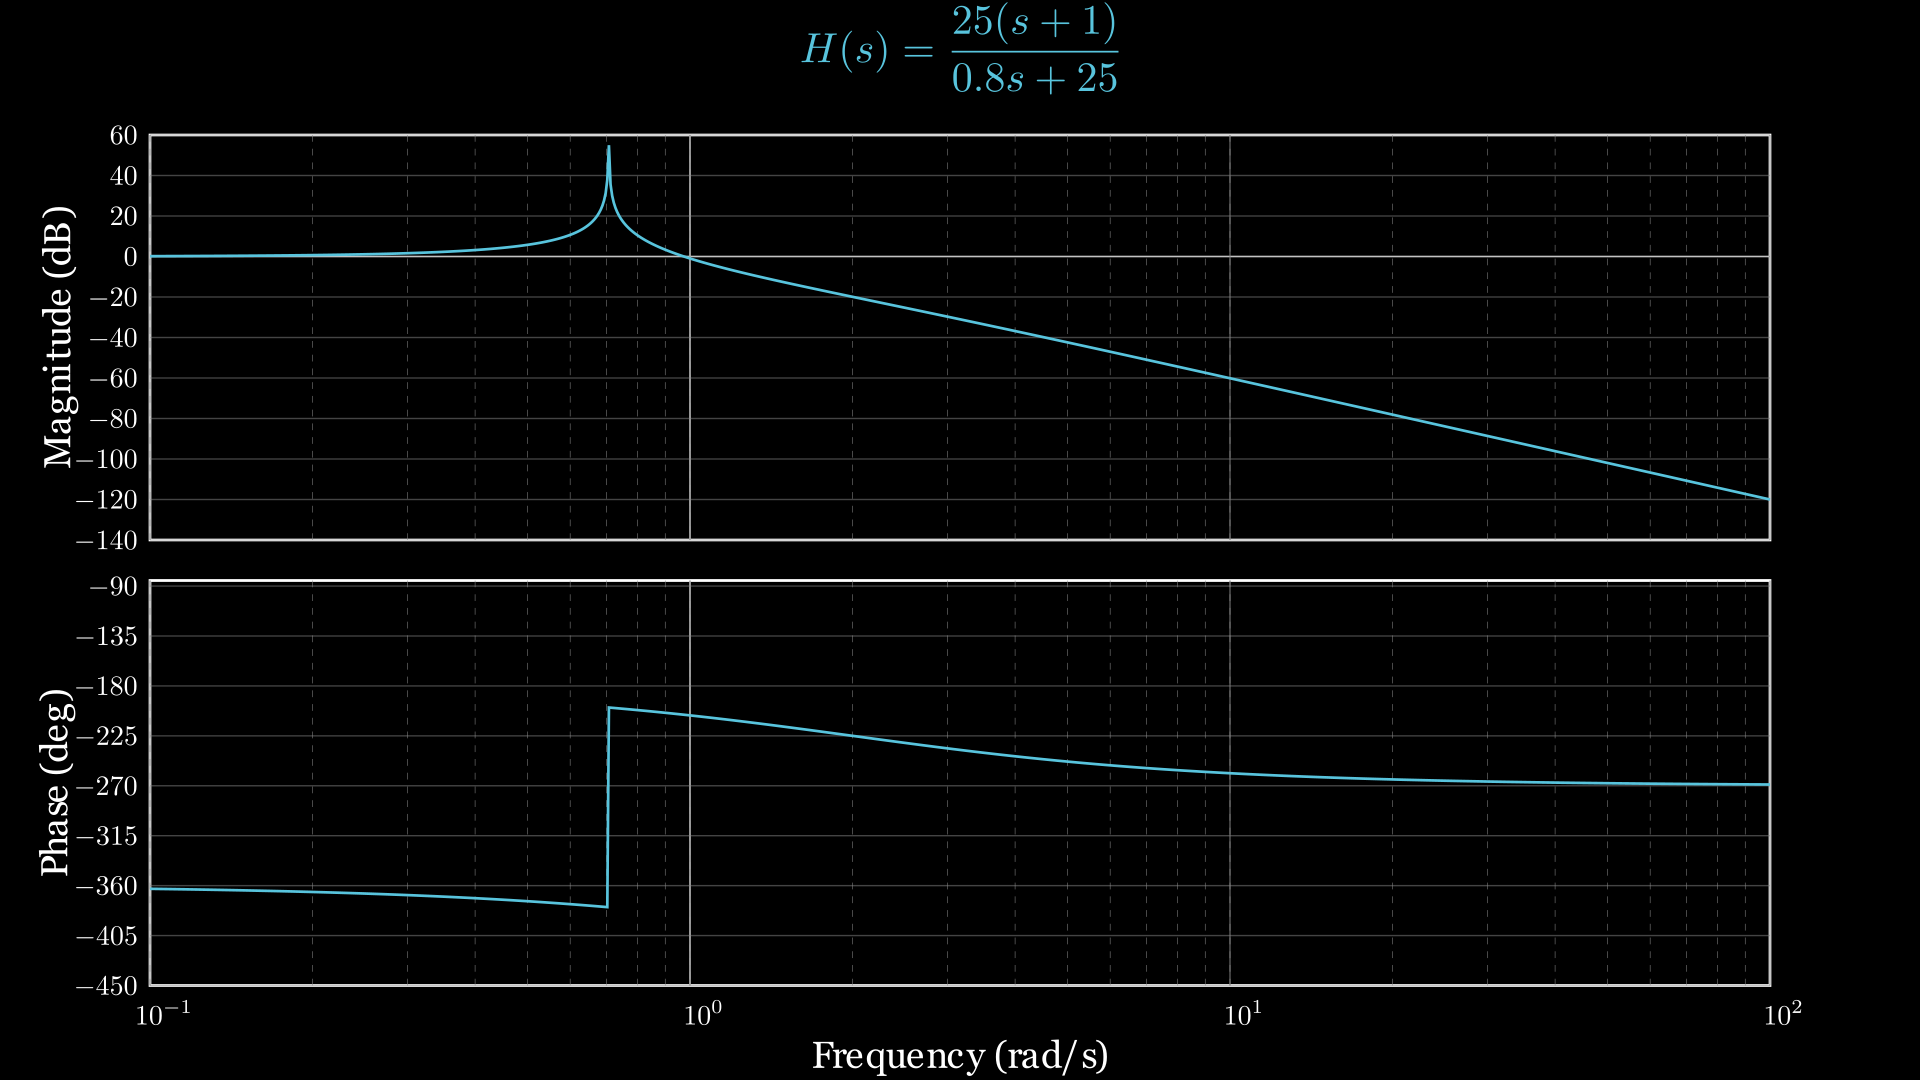
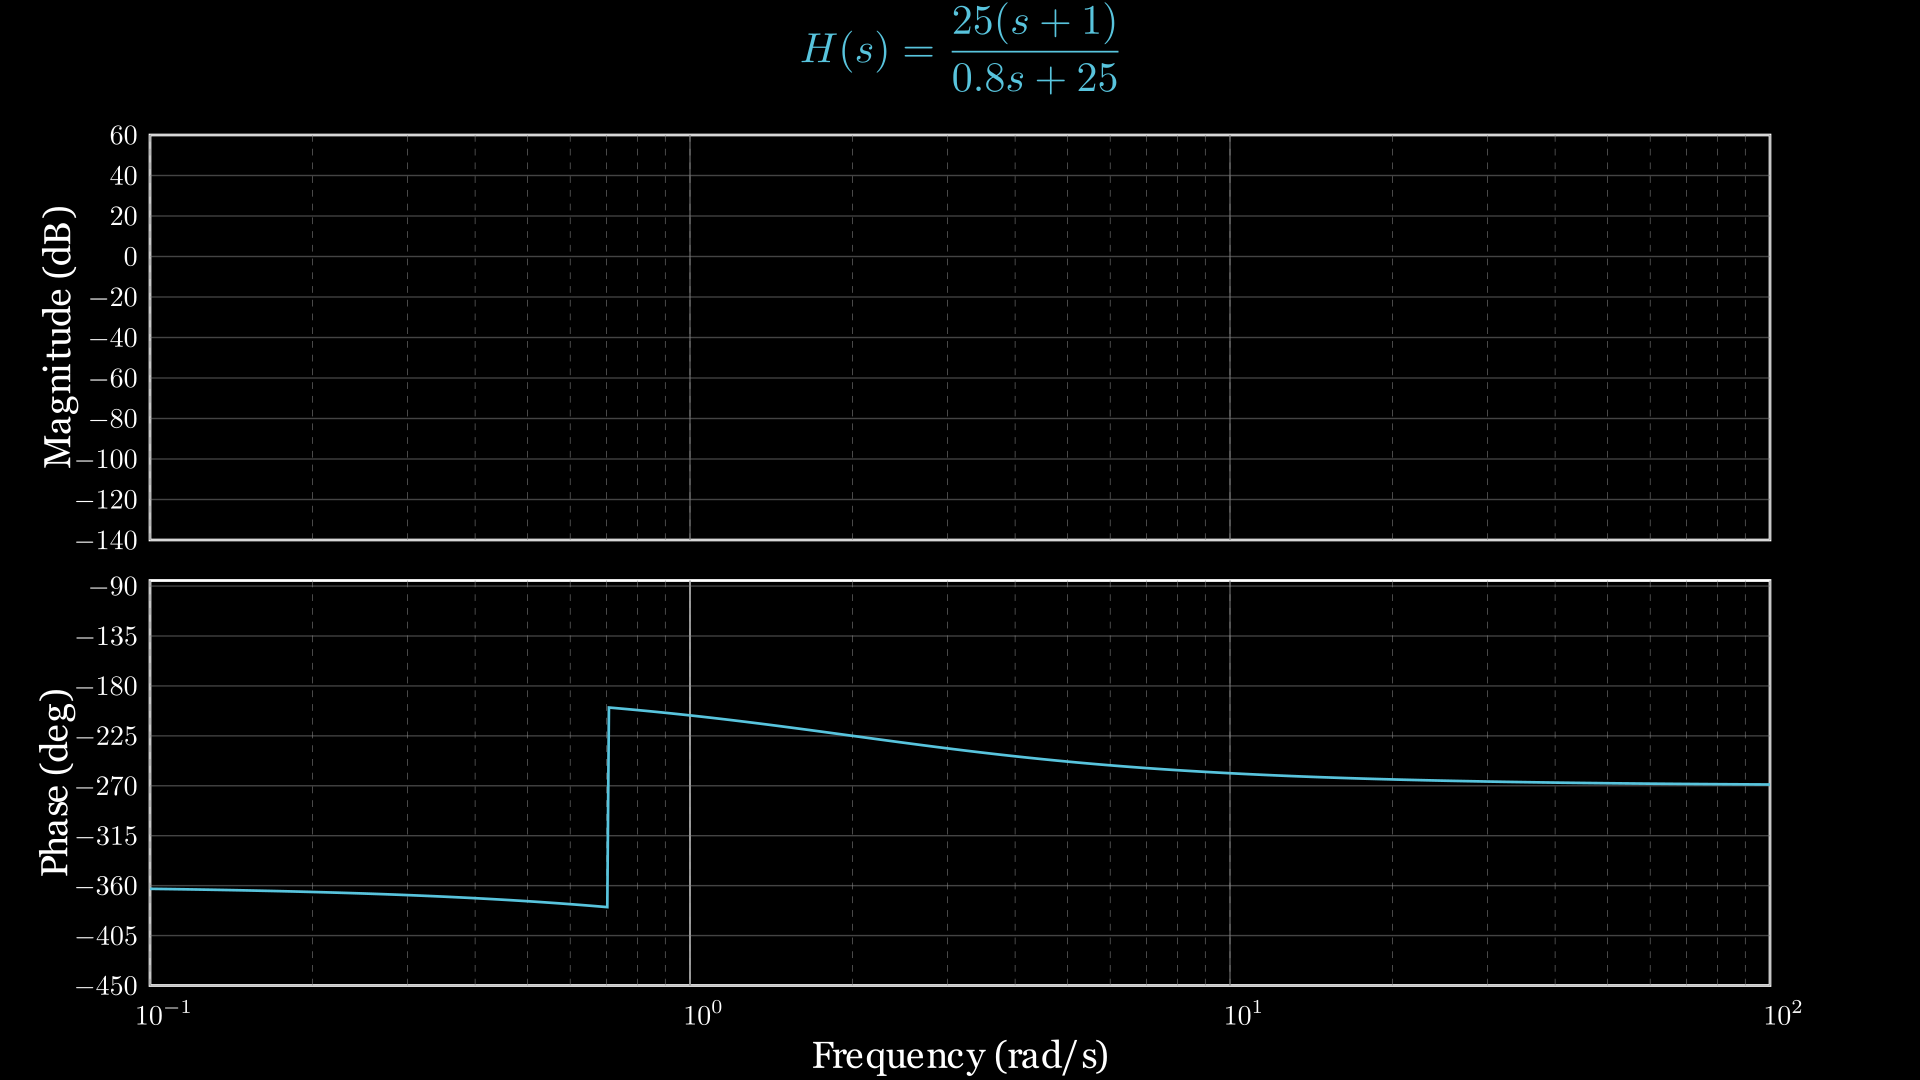
deleted "show" input, instead use function

diff --git a/controltheorylib/control.py b/controltheorylib/control.py
@@ -1085,7 +1085,7 @@ class ControlSystem:
 # Bode plot classes
 class BodePlot(VGroup):
     def __init__(self, system, freq_range=None, magnitude_yrange=None, 
-                 phase_yrange=None, show= 'both', **kwargs):
+                 phase_yrange=None, **kwargs):
         """
         Create a Bode plot visualization for a given system.
         
@@ -1098,12 +1098,10 @@ class BodePlot(VGroup):
         - freq_range: tuple (min_freq, max_freq) in rad/s
         - magnitude_yrange: tuple (min_db, max_db) for magnitude plot
         - phase_yrange: tuple (min_deg, max_deg) for phase plot
-        - show: What to display ('both', 'magnitude', or 'phase')
         """
         super().__init__(**kwargs)
         self.system = self._parse_system_input(system)
         self.system = self._ensure_tf(self.system)
-        self.show = show.lower()
         
         auto_ranges = self._auto_determine_ranges()
         self.freq_range = freq_range if freq_range is not None else auto_ranges['freq_range']
@@ -1121,7 +1119,24 @@ class BodePlot(VGroup):
         self._has_title = False
         # Center by default
 
+    def show_magnitude(self, show=True):
+        """Show or hide the magnitude plot."""
+        self._show_magnitude = show
+        if show:
+            self.add(self.mag_axes, self.mag_plot)
+        elif self.mag_axes in self:
+            self.remove(self.mag_axes, self.mag_plot)
+        return self
 
+    def show_phase(self, show=True):
+        """Show or hide the phase plot."""
+        self._show_phase = show
+        if show:
+            self.add(self.phase_axes, self.phase_plot)
+        elif self.phase_axes in self:
+            self.remove(self.phase_axes, self.phase_plot)
+        return self
+    
     def title(self, text, font_size=40, color=WHITE, use_math_tex=False):
         """
         Add a title to the Bode plot.
@@ -1145,13 +1160,9 @@ class BodePlot(VGroup):
         else:
             self._title = Text(text, font_size=font_size, color=color)
         
-        # Position the title above the plot 
-        if self.show in ['both', 'magnitude']:
-            self._title.next_to(self.mag_axes, UP, buff=0.3)
-            self.add(self._title)
-        elif self.show == 'phase':
-            self._title.next_to(self.phase_axes, UP, buff=0.3)
-            self.add(self._title)
+        # Position the title above the magnitude plot
+        self._title.next_to(self.mag_axes, UP, buff=0.3)
+        self.add(self._title)
 
         return self
       
@@ -1330,33 +1341,27 @@ class BodePlot(VGroup):
         phase_step = 15 if phase_span <= 90 else (30 if phase_span <= 180 else 45)
 
         # Create axes based on what we need to show
-        if self.show in ['both', 'magnitude']:
-            self.mag_axes = Axes(
-                x_range=[np.log10(self.freq_range[0]), np.log10(self.freq_range[1]), 1],
-                y_range=[self.magnitude_yrange[0], self.magnitude_yrange[1], mag_step],
-                x_length=12,
-                y_length=3,
-                axis_config={"color": WHITE, "stroke_width": 1, 
-                            "include_tip":False, "include_ticks":False},
-                y_axis_config={"font_size": 25},
-            )
-            if self.show == 'both':
-                self.mag_axes.shift(1.5*UP)
+        self.mag_axes = Axes(
+            x_range=[np.log10(self.freq_range[0]), np.log10(self.freq_range[1]), 1],
+            y_range=[self.magnitude_yrange[0], self.magnitude_yrange[1], mag_step],
+            x_length=12,
+            y_length=3,
+            axis_config={"color": WHITE, "stroke_width": 1, 
+                        "include_tip":False, "include_ticks":False},
+            y_axis_config={"font_size": 25},
+        )
+        self.mag_axes.shift(1.5*UP)
         
-        if self.show in ['both', 'phase']:
-            self.phase_axes = Axes(
-                x_range=[np.log10(self.freq_range[0]), np.log10(self.freq_range[1]), 1],
-                y_range=[self.phase_yrange[0], self.phase_yrange[1], phase_step],
-                x_length=12,
-                y_length=3,
-                axis_config={"color": WHITE, "stroke_width": 1, 
-                            "include_tip":False, "include_ticks":False},
-                y_axis_config={"font_size": 25},
-            )
-            if self.show == 'both':
-                self.phase_axes.next_to(self.mag_axes, DOWN, buff=0.3)
-            elif self.show == 'phase':
-                self.phase_axes.shift(UP*0.5)  # Center vertically if showing only phase
+        self.phase_axes = Axes(
+            x_range=[np.log10(self.freq_range[0]), np.log10(self.freq_range[1]), 1],
+            y_range=[self.phase_yrange[0], self.phase_yrange[1], phase_step],
+            x_length=12,
+            y_length=3,
+            axis_config={"color": WHITE, "stroke_width": 1, 
+                        "include_tip":False, "include_ticks":False},
+            y_axis_config={"font_size": 25},
+        )
+        self.phase_axes.next_to(self.mag_axes, DOWN, buff=0.3)
 
         # Add boxes and labels only for the visible plots
         self.add_plot_components()
@@ -1370,45 +1375,46 @@ class BodePlot(VGroup):
     
         # Create frequency labels (these are the same for both plots)
         freq_labels = VGroup()
-        box = self.phase_axes if hasattr(self, 'phase_axes') else self.mag_axes
-        box_bottom = box.get_bottom()[1] if hasattr(box, 'get_bottom') else 0
+        box_bottom = self.phase_axes.get_bottom()[1]
     
         for exp in decade_exponents:
             x_val = np.log10(10**exp)
-            tick_point = box.x_axis.n2p(x_val)
+            tick_point = self.phase_axes.x_axis.n2p(x_val)
             label = MathTex(f"10^{{{int(exp)}}}", font_size=20)
             label.move_to([tick_point[0]+0.1, box_bottom-0.2, 0])
             freq_labels.add(label)
     
-        # Add components for magnitude plot if visible
-        if hasattr(self, 'mag_axes'):
-            mag_box = SurroundingRectangle(self.mag_axes, buff=0, color=WHITE, stroke_width=2)
-            mag_y_labels = self.create_y_labels(self.mag_axes, self.magnitude_yrange, 
-                                         self.magnitude_yrange[1]-self.magnitude_yrange[0])
-            mag_grid_lines = self.create_grid_lines(self.mag_axes, self.magnitude_yrange)
-            mag_ylabel = Text("Magnitude (dB)", font_size=20).next_to(mag_box, LEFT, buff=-0.3).rotate(PI/2)
+        # magnitude plot components
+        mag_box = SurroundingRectangle(self.mag_axes, buff=0, color=WHITE, stroke_width=2)
+        mag_y_labels = self.create_y_labels(self.mag_axes, self.magnitude_yrange, 
+                                        self.magnitude_yrange[1]-self.magnitude_yrange[0])
+        mag_grid_lines = self.create_grid_lines(self.mag_axes, self.magnitude_yrange)
+        mag_ylabel = Text("Magnitude (dB)", font_size=20).next_to(mag_box, LEFT, buff=-0.3).rotate(PI/2)
         
-            # Add vertical grid lines for magnitude plot
-            mag_vert_grid = self.create_vertical_grid(self.mag_axes)
-        
-            self.add(self.mag_axes, mag_box, mag_y_labels, mag_grid_lines, 
-                mag_vert_grid, mag_ylabel)
+        # Add vertical grid lines for magnitude plot
+        mag_vert_grid = self.create_vertical_grid(self.mag_axes)
 
         # Add components for phase plot if visible
-        if hasattr(self, 'phase_axes'):
-            phase_box = SurroundingRectangle(self.phase_axes, buff=0, color=WHITE, stroke_width=2)
-            phase_y_labels = self.create_y_labels(self.phase_axes, self.phase_yrange,
-                                            self.phase_yrange[1]-self.phase_yrange[0])
-            phase_grid_lines = self.create_grid_lines(self.phase_axes, self.phase_yrange)
-            phase_ylabel = Text("Phase (deg)", font_size=20).next_to(phase_box, LEFT, buff=0).rotate(PI/2)
-            freq_xlabel = Text("Frequency (rad/s)", font_size=20).next_to(phase_box, DOWN, buff=0.4)
+        phase_box = SurroundingRectangle(self.phase_axes, buff=0, color=WHITE, stroke_width=2)
+        phase_y_labels = self.create_y_labels(self.phase_axes, self.phase_yrange,
+                                        self.phase_yrange[1]-self.phase_yrange[0])
+        phase_grid_lines = self.create_grid_lines(self.phase_axes, self.phase_yrange)
+        phase_ylabel = Text("Phase (deg)", font_size=20).next_to(phase_box, LEFT, buff=0).rotate(PI/2)
+        freq_xlabel = Text("Frequency (rad/s)", font_size=20).next_to(phase_box, DOWN, buff=0.4)
         
-            # Add vertical grid lines for phase plot
-            phase_vert_grid = self.create_vertical_grid(self.phase_axes)
+        # Add vertical grid lines for phase plot
+        phase_vert_grid = self.create_vertical_grid(self.phase_axes)
         
-            self.add(self.phase_axes, phase_box, phase_y_labels, phase_grid_lines,
-                phase_vert_grid, phase_ylabel, freq_xlabel, freq_labels)
+        # Magnitude components
+        self.mag_components = VGroup(mag_box, mag_y_labels, mag_grid_lines, mag_ylabel, mag_vert_grid)
+        
+        #Phase compmonents
+        self.phase_components = VGroup(phase_box, phase_y_labels, phase_grid_lines, 
+                                  phase_ylabel, freq_xlabel, phase_vert_grid, freq_labels)
 
+        self.add(self.mag_axes, self.mag_components,
+            self.phase_axes, self.phase_components)
+        
     def create_vertical_grid(self, axes):
         """Create vertical grid lines for frequency decades."""
         min_exp = np.floor(np.log10(self.freq_range[0]))
@@ -1512,17 +1518,18 @@ class BodePlot(VGroup):
         """Create the Bode plot curves for the visible plots."""
         log_w = np.log10(self.frequencies)
         
-        if hasattr(self, 'mag_axes'):
-            mag_points = [self.mag_axes.coords_to_point(x, y) for x, y in zip(log_w, self.magnitudes)]
-            self.mag_plot = VMobject().set_points_as_corners(mag_points)
-            self.mag_plot.set_color(BLUE).set_stroke(width=2)
-            self.add(self.mag_plot)
+        # Magnitude plot
+        mag_points = [self.mag_axes.coords_to_point(x, y) for x, y in zip(log_w, self.magnitudes)]
+        self.mag_plot = VMobject().set_points_as_corners(mag_points)
+        self.mag_plot.set_color(BLUE).set_stroke(width=2)
         
-        if hasattr(self, 'phase_axes'):
-            phase_points = [self.phase_axes.coords_to_point(x, y) for x, y in zip(log_w, self.phases)]
-            self.phase_plot = VMobject().set_points_as_corners(phase_points)
-            self.phase_plot.set_color(BLUE).set_stroke(width=2)
-            self.add(self.phase_plot)
+        # Phase plot
+        phase_points = [self.phase_axes.coords_to_point(x, y) for x, y in zip(log_w, self.phases)]
+        self.phase_plot = VMobject().set_points_as_corners(phase_points)
+        self.phase_plot.set_color(BLUE).set_stroke(width=2)
+
+        # add both plots
+        self.add(self.mag_plot, self.phase_plot)
 
     def get_critical_points(self):
         """Identify critical points (resonance, crossover, etc.)"""

diff --git a/examples/Bodeplots/Bodeplots.py b/examples/Bodeplots/Bodeplots.py
@@ -10,7 +10,7 @@ class Bode(Scene):
 
         bode = BodePlot(system)
         bode.title(r"H(s)=\frac{25(s+1)}{0.8s+25}", font_size=30, color=BLUE, use_math_tex=True)
-
+        bode.show_magnitude(False)
         self.add(bode)
 
         # Highlight critical points
